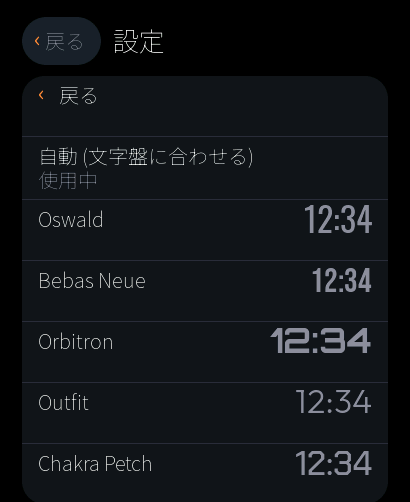
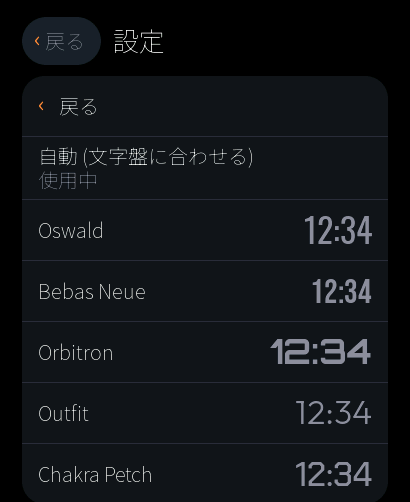
レビュー反映2: 行コンテンツの垂直中央揃え・タイマー数字センタリング・アラーム時刻/曜日の隙間
- LVGL は SIZE_CONTENT の flex コンテナで track_place を START に固定する
  ため子要素が行の上寄りに張り付いていた。テキストセルに行の最低高さを
  持たせてセル内でタイトル(+サブ)ブロックを垂直中央揃えにした。
- タイマー実行中の数字は transform_scale のピボット既定値が左上なため
  実際の見た目が左上にずれていた。ピボットを LV_PCT(50) に修正。
- アラーム行は digits(34) が箱いっぱいのグリフで pad_row -10 だと曜日に
  重なっていた。~4px 隙間になるよう -4 に緩和 (行高 ~80)。

diff --git a/firmware/components/ui/src/screens/alarm.cpp b/firmware/components/ui/src/screens/alarm.cpp
@@ -66,8 +66,15 @@ void rebuild_list() {
     lv_obj_set_style_border_width(cell, 0, 0);
     lv_obj_set_style_pad_all(cell, 0, 0);
     // 数字フォントと本文フォントの行高が大きいので負値で曜日行を近づける。
-    lv_obj_set_style_pad_row(cell, -10, 0);
+    // digits(34) はグリフが箱いっぱいなので強く詰めると時刻と曜日が重なる。
+    // ~4px 隙間になるよう -4 にとどめる。
+    lv_obj_set_style_pad_row(cell, -4, 0);
+    // セル自体を行の最低高さいっぱいにして上下中央揃えにする
+    // (行は SIZE_CONTENT で LVGL の track_place が START に固定されるため)。
+    lv_obj_set_style_min_height(cell, 80, 0);
     lv_obj_set_flex_flow(cell, LV_FLEX_FLOW_COLUMN);
+    lv_obj_set_flex_align(cell, LV_FLEX_ALIGN_CENTER, LV_FLEX_ALIGN_START,
+                          LV_FLEX_ALIGN_START);
     lv_obj_set_flex_grow(cell, 1);
     lv_obj_remove_flag(cell, LV_OBJ_FLAG_SCROLLABLE);
 

diff --git a/firmware/components/ui/src/screens/timer.cpp b/firmware/components/ui/src/screens/timer.cpp
@@ -187,7 +187,11 @@ lv_obj_t* build(lv_obj_t* scr) {
   lv_obj_add_flag(s.remain_l, LV_OBJ_FLAG_EVENT_BUBBLE);
   lv_label_set_text(s.remain_l, "00:00");
   // 時計フォントのまま ~68% に縮小し、リング内に余白を持たせる (モック ~76px)。
+  // ピボット未指定だとレイヤ変換が左上基準で行われ、見た目が左上にずれる。
+  // 中心基準にすると ALIGN_CENTER のまま正しく中央に収まる。
   lv_obj_set_style_text_font(s.remain_l, ui::face::digits(112), 0);
+  lv_obj_set_style_transform_pivot_x(s.remain_l, LV_PCT(50), 0);
+  lv_obj_set_style_transform_pivot_y(s.remain_l, LV_PCT(50), 0);
   lv_obj_set_style_transform_scale_x(s.remain_l, 174, 0);
   lv_obj_set_style_transform_scale_y(s.remain_l, 174, 0);
   lv_obj_set_style_text_color(s.remain_l, t.text, 0);

diff --git a/firmware/components/ui/src/components.cpp b/firmware/components/ui/src/components.cpp
@@ -242,6 +242,10 @@ lv_obj_t* row_text(lv_obj_t* row, const char* text, const char* sub,
   // font_jp_20 は line_height 38 でグリフ (20px) より箱が大きいので、
   // 負の行間でサブ行をタイトル直下に寄せる (視覚的に ~2-4px)。
   lv_obj_set_style_pad_row(cell, -14, 0);
+  // 行が SIZE_CONTENT だと LVGL は track_place を START に固定し、
+  // 子が行の上寄りに張り付く。セルに行の最低高さを持たせて、セル内で
+  // タイトル (+サブ) ブロックを垂直中央揃えにする。
+  lv_obj_set_style_min_height(cell, kRowMinH, 0);
   lv_obj_set_flex_flow(cell, LV_FLEX_FLOW_COLUMN);
   lv_obj_set_flex_align(cell, LV_FLEX_ALIGN_CENTER, LV_FLEX_ALIGN_START,
                         LV_FLEX_ALIGN_START);
